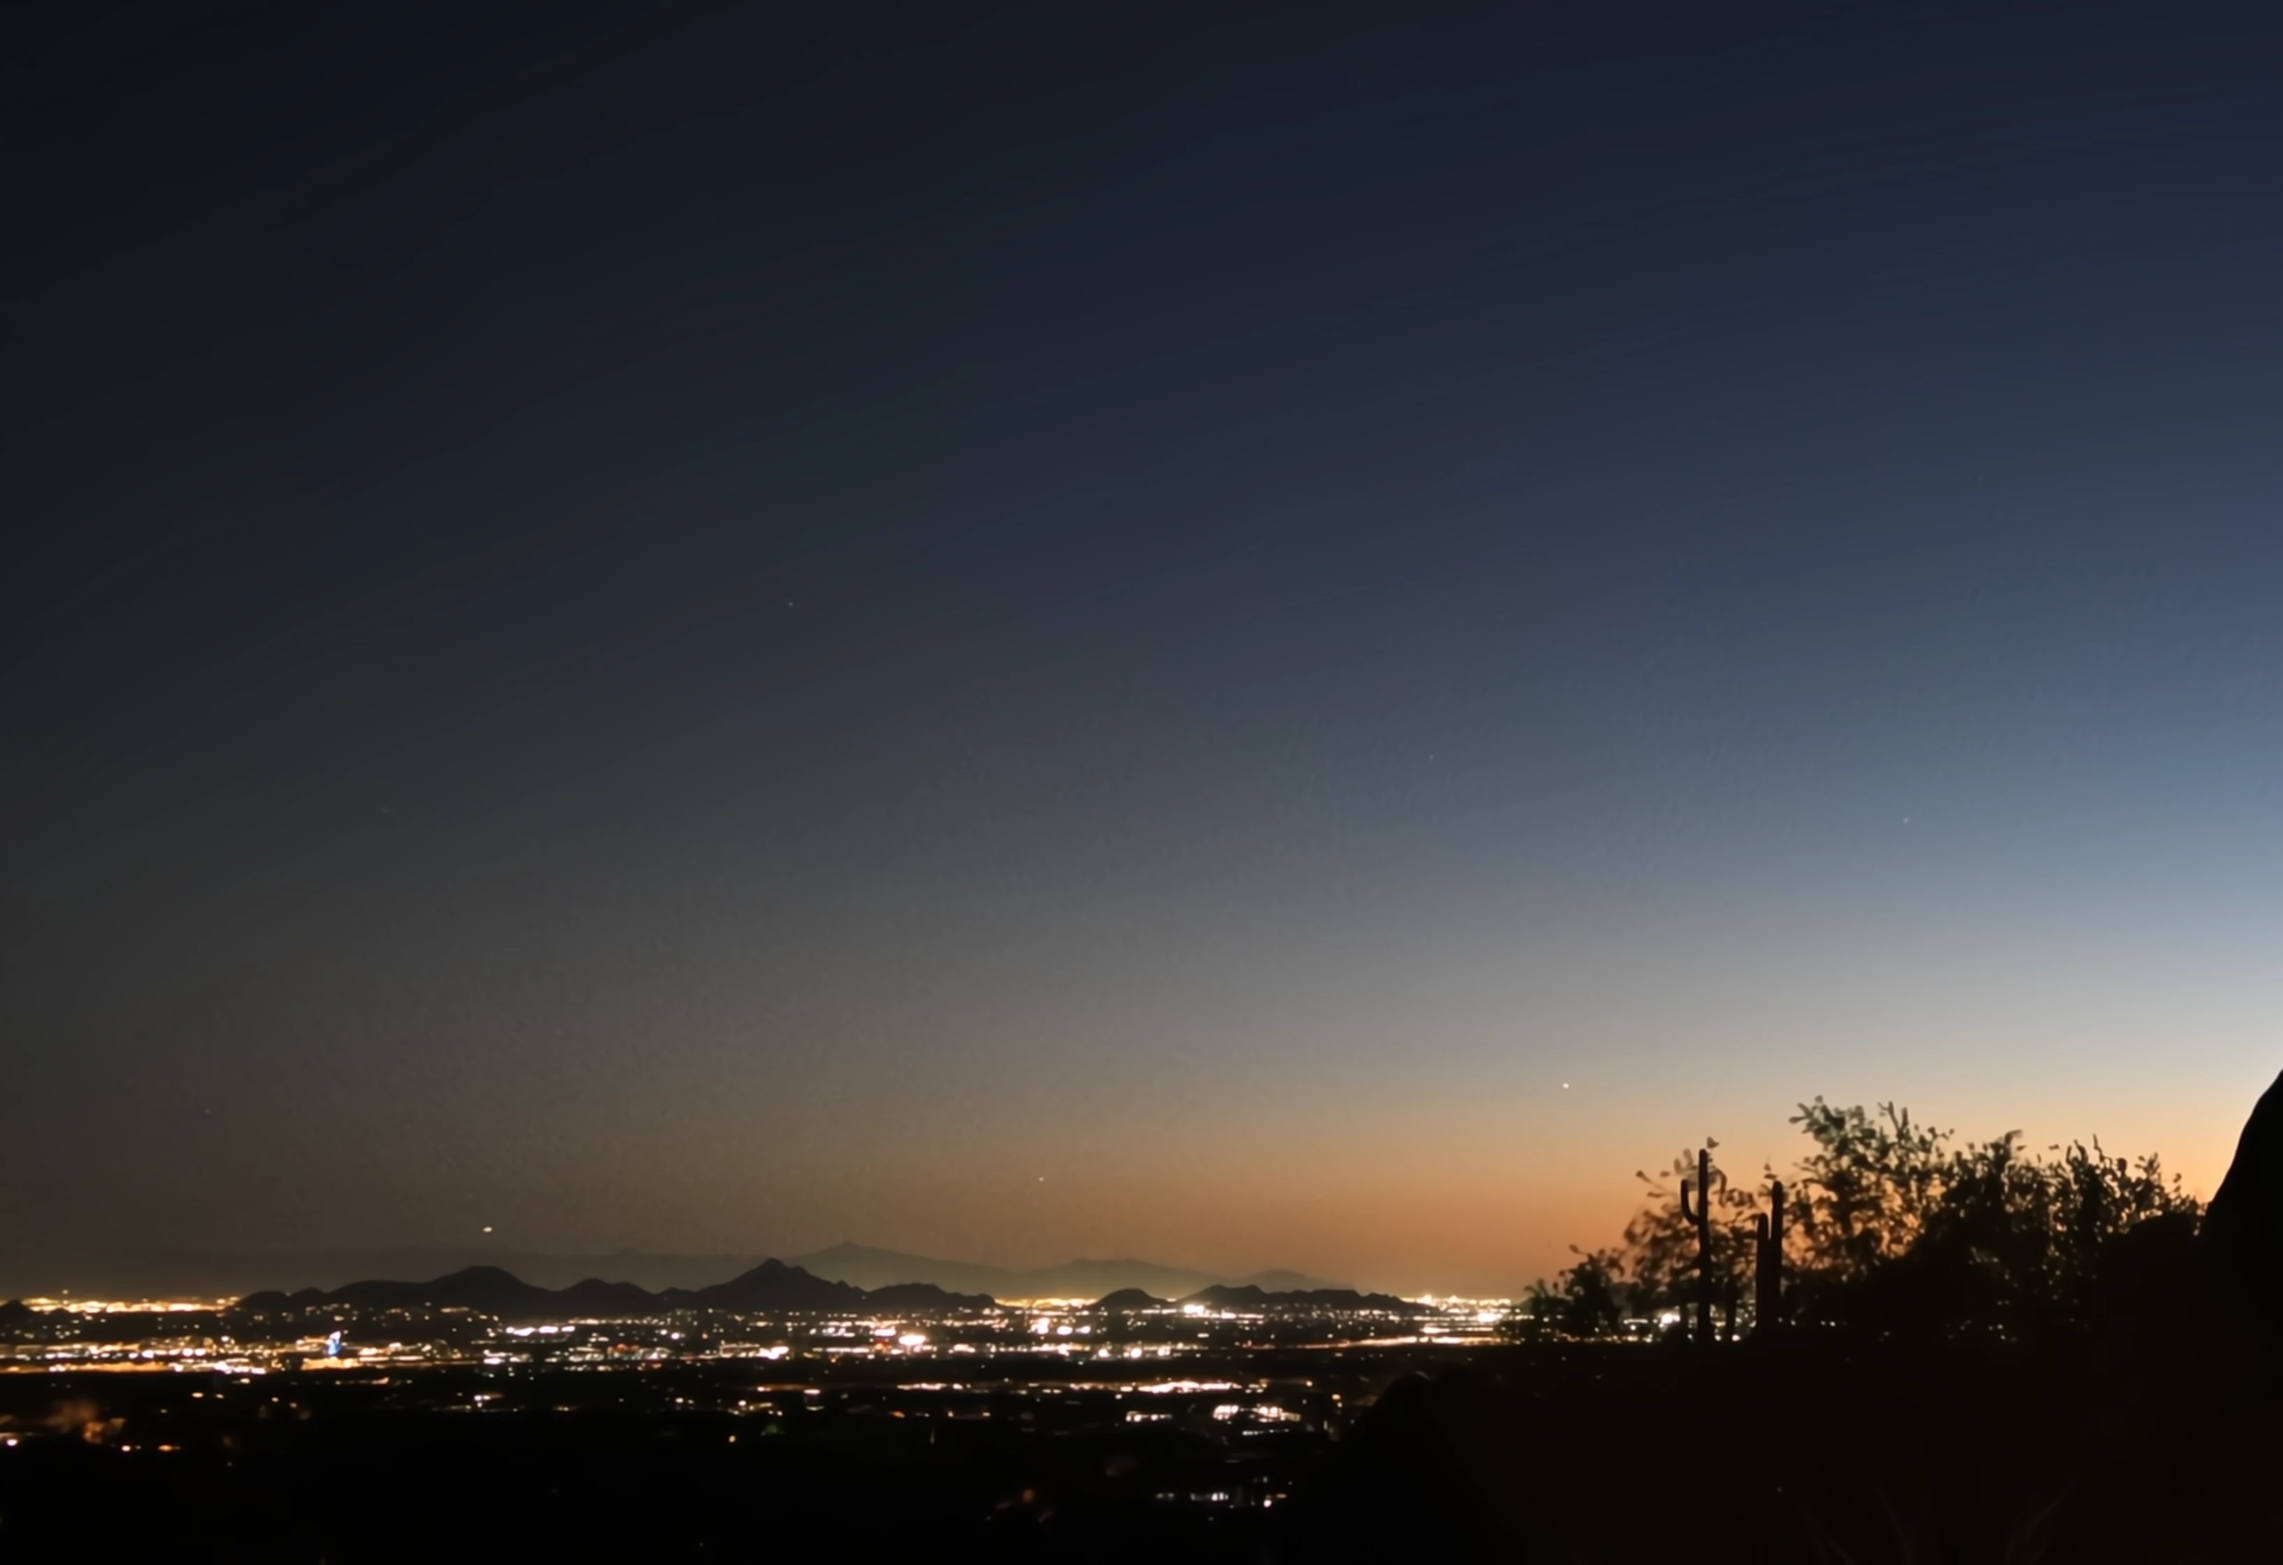
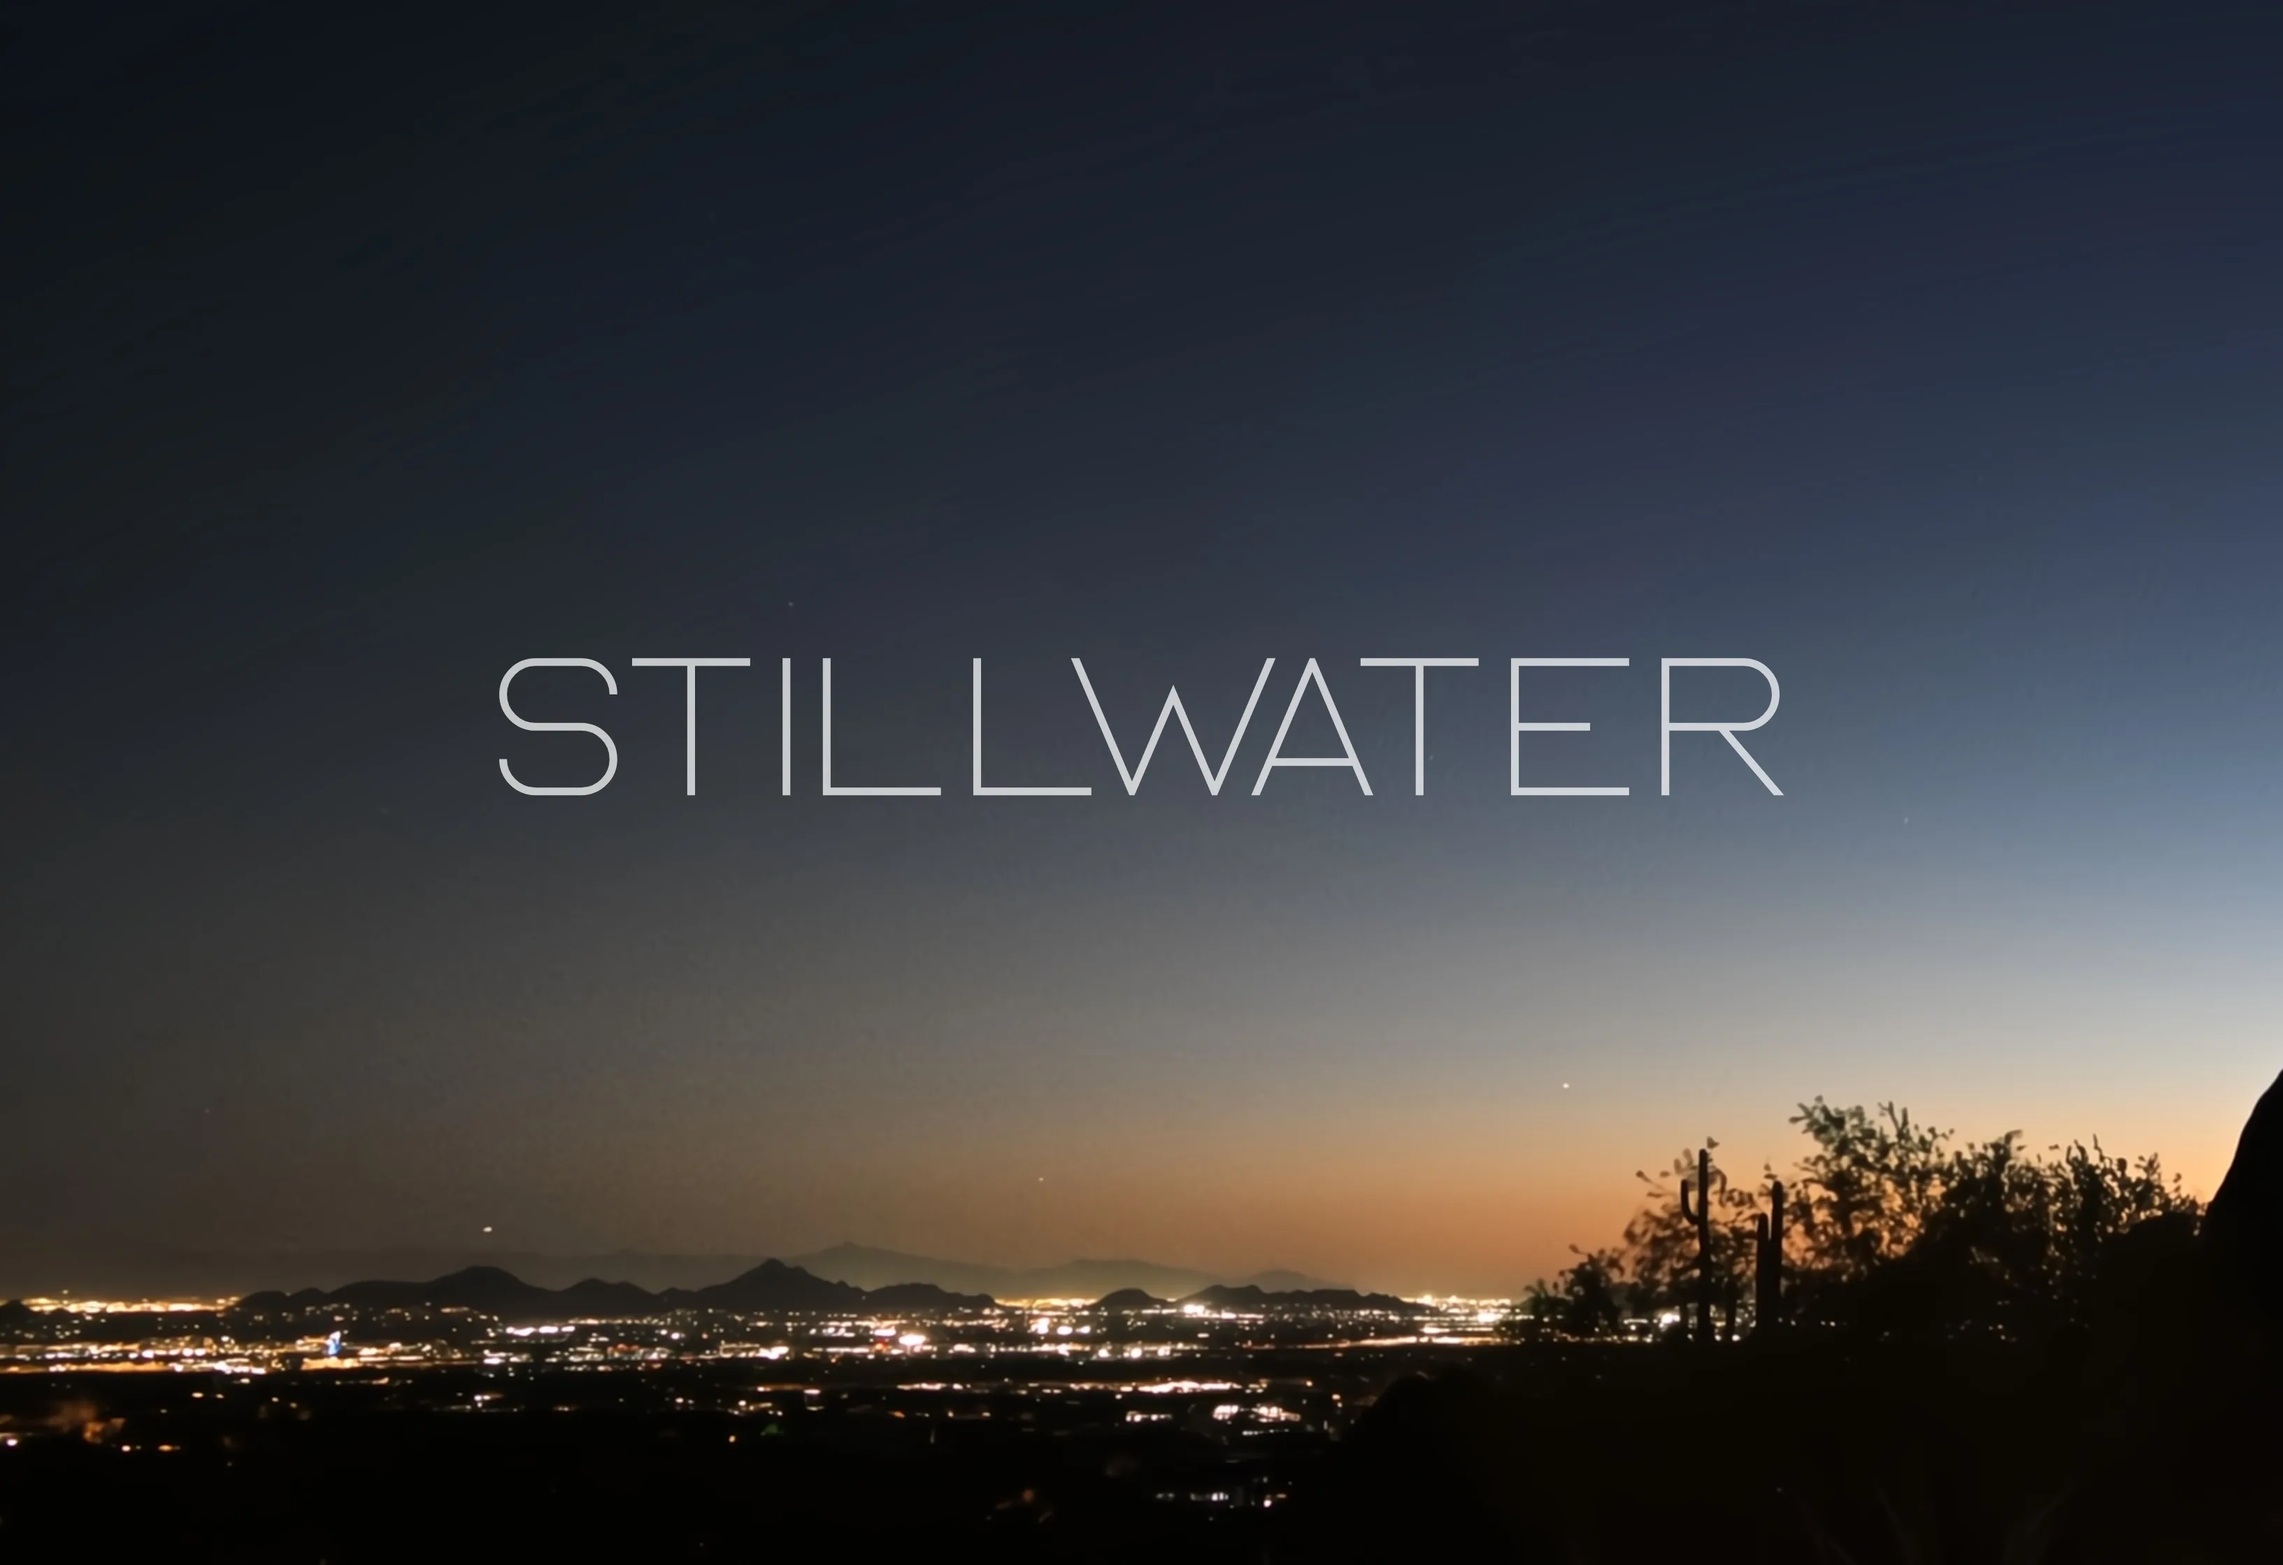
flow optimization changes 1

Changed region(s): [[0.3436, 0.4008, 0.781, 0.5241], [0.2187, 0.4008, 0.3436, 0.5241]]

diff --git a/src/components/TransitionScene.jsx b/src/components/TransitionScene.jsx
@@ -2,17 +2,15 @@ import { useEffect, useRef } from "react";
 import gsap from "gsap";
 import { ScrollTrigger } from "gsap/ScrollTrigger";
 
-import img1 from "../assets/transition-images/image.jpg";
-import img2 from "../assets/transition-images/StillWater2.jpg";
-import img3 from "../assets/transition-images/stillwater portrait.jpg";
-import img4 from "../assets/transition-images/CB787A7C-36DD-43DF-BEE5-09401B70F435_1_201_a.jpeg";
-import img5 from "../assets/transition-images/IMG_0516.jpg";
-import img6 from "../assets/transition-images/902EB426-B075-440F-9A7C-DCC8368DFB53_1_105_c.jpeg";
-import img7 from "../assets/transition-images/EF05DFC2-AC5E-49F2-B830-3194577C7D32_1_105_c.jpeg";
-import img8 from "../assets/transition-images/74B92F53-F170-411C-9F38-AD28940CFDDA_1_105_c.jpeg";
-import img9 from "../assets/transition-images/94D025A2-B193-4FA8-B33D-B59E815C457F_1_105_c.jpeg";
-
-gsap.registerPlugin(ScrollTrigger);
+import img1 from "../assets/transition-images/image.webp";
+import img2 from "../assets/transition-images/StillWater2.webp";
+import img3 from "../assets/transition-images/stillwater portrait.webp";
+import img4 from "../assets/transition-images/CB787A7C-36DD-43DF-BEE5-09401B70F435_1_201_a.webp";
+import img5 from "../assets/transition-images/IMG_0516.webp";
+import img6 from "../assets/transition-images/902EB426-B075-440F-9A7C-DCC8368DFB53_1_105_c.webp";
+import img7 from "../assets/transition-images/EF05DFC2-AC5E-49F2-B830-3194577C7D32_1_105_c.webp";
+import img8 from "../assets/transition-images/74B92F53-F170-411C-9F38-AD28940CFDDA_1_105_c.webp";
+import img9 from "../assets/transition-images/94D025A2-B193-4FA8-B33D-B59E815C457F_1_105_c.webp";
 
 const ALL_IMGS = [img1, img2, img3, img4, img5, img6, img7, img8, img9];
 
@@ -65,65 +63,51 @@ export default function TransitionScene({ index }) {
     const scene = sceneRef.current;
     const wrapper = wrapperRef.current;
     const gridCells = scene.querySelectorAll(".ts-cell");
-    // Trigger off the next sibling (the Hear pin-section)
-    // The wrapper is now inside .ts-spacer, so climb up to find the next section
     const spacer = wrapper.closest(".ts-spacer") ?? wrapper;
-    const nextSection = spacer.nextElementSibling;
-    if (!scene || !wrapper || !nextSection) return;
+    if (!scene || !wrapper) return;
 
-    const speeds = [0.6, 1.0, 0.75, 0.9, 0.55, 0.85];
     const vw = window.innerWidth;
-
-    // Assign each cell a random off-screen x start: left or right outside viewport
     const cellArr = Array.from(gridCells);
-    const xOrigins = cellArr.map(() =>
-      Math.random() < 0.5 ? -(vw * 1.4) : vw * 1.4,
+
+    // Each cell starts off-screen left or right (alternating, deterministic)
+    const xOrigins = cellArr.map((_, i) =>
+      i % 2 === 0 ? -(vw * 0.55) : vw * 0.55,
     );
 
-    gsap.set(scene, { opacity: 0 });
+    gsap.set(scene, { autoAlpha: 0 });
     cellArr.forEach((cell, i) => {
-      gsap.set(cell, { x: xOrigins[i], opacity: 0, scale: 0.25 });
+      gsap.set(cell, { x: xOrigins[i], autoAlpha: 0 });
     });
 
-    // Shuffle indices for random arrival order
-    const order = cellArr.map((_, i) => i).sort(() => Math.random() - 0.5);
+    const tl = gsap.timeline({ defaults: { ease: "none" } });
 
-    const tl = gsap.timeline({
-      scrollTrigger: {
-        trigger: nextSection,
-        start: "top 100%",
-        end: "top 15%",
-        scrub: 2,
-      },
+    tl.to(scene, { autoAlpha: 1, duration: 0.1 });
+    tl.to(cellArr, { x: 0, autoAlpha: 1, duration: 0.4, stagger: 0.08 }, "<");
+    tl.to({}, { duration: 0.2 });
+    tl.to(cellArr, {
+      x: (i) => xOrigins[i] * -0.4,
+      autoAlpha: 0,
+      duration: 0.4,
+      stagger: 0.06,
     });
+    tl.to(scene, { autoAlpha: 0, duration: 0.1 }, "-=0.1");
 
-    tl.to(scene, { opacity: 1, duration: 0.05, ease: "none" });
-
-    // Cells slide in from their random side one by one in shuffled order
-    order.forEach((idx, i) => {
-      tl.to(
-        cellArr[idx],
-        { x: 0, opacity: 1, scale: 1, duration: 0.08, ease: "power4.out" },
-        `<${i * 0.015}`,
-      );
+    const st = ScrollTrigger.create({
+      trigger: spacer,
+      start: "top 80%",
+      end: "bottom 20%",
+      scrub: true,
+      animation: tl,
+      onEnter: () =>
+        cellArr.forEach((c) => (c.style.willChange = "transform, opacity")),
+      onLeave: () => cellArr.forEach((c) => (c.style.willChange = "auto")),
+      onEnterBack: () =>
+        cellArr.forEach((c) => (c.style.willChange = "transform, opacity")),
+      onLeaveBack: () => cellArr.forEach((c) => (c.style.willChange = "auto")),
     });
-
-    // Hold — most of the timeline sits here before fade-out
-    tl.to({}, { duration: 0.35 });
-
-    // Cells disperse upward and fade out
-    cellArr.forEach((cell, i) => {
-      tl.to(
-        cell,
-        { y: -65 * speeds[i], opacity: 0, duration: 0.3, ease: "power2.in" },
-        "<0.03",
-      );
-    });
-
-    tl.to(scene, { opacity: 0, duration: 0.08, ease: "none" });
 
     return () => {
-      tl.scrollTrigger?.kill();
+      st.kill();
       tl.kill();
     };
   }, []);

diff --git a/src/components/Hear.jsx b/src/components/Hear.jsx
@@ -10,8 +10,6 @@ import track1 from "../assets/stillwater-assets/Brian Wilkinson - No One Told Yo
 import track2 from "../assets/stillwater-assets/Brian WIlkinson - Not Yet.mp3";
 import track3 from "../assets/stillwater-assets/Brian Wilkinson - I Think I Kinda Know Myself.mp3";
 
-gsap.registerPlugin(ScrollTrigger);
-
 const tracks = [
   { title: "No One Told You", src: track1 },
   { title: "Not Yet", src: track2 },
@@ -53,7 +51,7 @@ export default function Hear() {
           trigger: section,
           start: "top bottom",
           end: "bottom top",
-          scrub: 1.5,
+          scrub: 1,
         },
       },
     );
@@ -83,7 +81,7 @@ export default function Hear() {
           trigger: pinSection,
           start: "top 80%",
           end: "bottom 20%",
-          scrub: 1.5,
+          scrub: 1,
         },
       });
       fadeTl
@@ -93,29 +91,48 @@ export default function Hear() {
     }
 
     // Continuous looping wave — each char bobs up/down with a phase offset
+    const waveTweens = [];
     chars.forEach((char, i) => {
-      gsap.to(char, {
-        y: -14,
-        skewX: 4,
-        duration: 1.8,
-        ease: "sine.inOut",
-        repeat: -1,
-        yoyo: true,
-        delay: i * 0.1,
-      });
+      waveTweens.push(
+        gsap.to(char, {
+          y: -14,
+          skewX: 4,
+          duration: 1.8,
+          ease: "sine.inOut",
+          repeat: -1,
+          yoyo: true,
+          delay: i * 0.1,
+          paused: true,
+        }),
+      );
       // Subtle opacity shimmer to mimic light on water
-      gsap.to(char, {
-        opacity: 0.55,
-        duration: 2.2,
-        ease: "sine.inOut",
-        repeat: -1,
-        yoyo: true,
-        delay: i * 0.12 + 0.4,
-      });
+      waveTweens.push(
+        gsap.to(char, {
+          opacity: 0.55,
+          duration: 2.2,
+          ease: "sine.inOut",
+          repeat: -1,
+          yoyo: true,
+          delay: i * 0.12 + 0.4,
+          paused: true,
+        }),
+      );
+    });
+
+    // Only run wave tweens while section is visible
+    const waveST = ScrollTrigger.create({
+      trigger: pinSection ?? sectionRef.current,
+      start: "top bottom",
+      end: "bottom top",
+      onEnter: () => waveTweens.forEach((t) => t.play()),
+      onLeave: () => waveTweens.forEach((t) => t.pause()),
+      onEnterBack: () => waveTweens.forEach((t) => t.play()),
+      onLeaveBack: () => waveTweens.forEach((t) => t.pause()),
     });
 
     return () => {
-      gsap.killTweensOf(chars);
+      waveTweens.forEach((t) => t.kill());
+      waveST.kill();
       fadeTl?.scrollTrigger?.kill();
       fadeTl?.kill();
     };
@@ -171,15 +188,7 @@ export default function Hear() {
   };
 
   return (
-    <motion.section
-      ref={sectionRef}
-      id="hear"
-      className="hear"
-      initial={{ opacity: 0, x: -80 }}
-      whileInView={{ opacity: 1, x: 0 }}
-      viewport={{ once: true, margin: "-100px" }}
-      transition={{ duration: 0.8, ease: "easeOut" }}
-    >
+    <section ref={sectionRef} id="hear" className="hear">
       {/* Parallax background */}
       <div className="hear__bg-wrap">
         <div
@@ -261,6 +270,6 @@ export default function Hear() {
           </div>
         </div>
       </div>
-    </motion.section>
+    </section>
   );
 }

diff --git a/src/components/Bio.jsx b/src/components/Bio.jsx
@@ -2,8 +2,6 @@ import { useEffect, useRef } from "react";
 import gsap from "gsap";
 import { ScrollTrigger } from "gsap/ScrollTrigger";
 
-gsap.registerPlugin(ScrollTrigger);
-
 export default function Bio() {
   const bioRef = useRef(null);
 
@@ -14,11 +12,10 @@ export default function Bio() {
     const revealStack = bio.closest(".reveal-stack");
     const watchEl = revealStack?.querySelector(".reveal-stack__watch");
 
-    // Bio starts scaled down — sitting "behind" the Watch
+    // Bio starts hidden — sitting "behind" the Watch
     gsap.set(bio, {
-      scale: 0.72,
       opacity: 0,
-      transformOrigin: "center center",
+      y: 40,
     });
 
     const tl = gsap.timeline({
@@ -30,31 +27,28 @@ export default function Bio() {
       },
     });
 
-    // Watch explodes outward and falls apart
+    // Watch fades out
     if (watchEl) {
       tl.to(
         watchEl,
         {
-          scale: 1.25,
           opacity: 0,
-          filter: "blur(16px)",
-          transformOrigin: "center center",
           duration: 0.5,
-          ease: "power2.in",
+          ease: "none",
         },
         0,
       );
       tl.set(watchEl, { visibility: "hidden", pointerEvents: "none" }, 0.5);
     }
 
-    // Bio zooms in fully visible
+    // Bio fades and slides in
     tl.to(
       bio,
       {
-        scale: 1,
         opacity: 1,
+        y: 0,
         duration: 0.6,
-        ease: "power3.out",
+        ease: "none",
       },
       0.1,
     );
@@ -66,7 +60,7 @@ export default function Bio() {
         trigger: revealStack,
         start: "top+=80% top",
         end: "bottom top",
-        scrub: 1.5,
+        scrub: 1,
       },
     });
     readingTl.to(bioInner, {

diff --git a/src/App.jsx b/src/App.jsx
@@ -33,8 +33,6 @@ export default function App() {
   }, []);
 
   useEffect(() => {
-    gsap.ticker.lagSmoothing(0);
-
     // Progress bar: update on native scroll
     const onScroll = () => {
       if (progressRef.current) {
@@ -59,12 +57,10 @@ export default function App() {
 
     // Recalculate after images/fonts have loaded — critical when mounting
     // after login gate since large images shift page height significantly
-    const refresh1 = setTimeout(() => ScrollTrigger.refresh(), 300);
     const refresh2 = setTimeout(() => ScrollTrigger.refresh(), 1500);
     window.addEventListener("load", () => ScrollTrigger.refresh());
 
     return () => {
-      clearTimeout(refresh1);
       clearTimeout(refresh2);
       ScrollTrigger.getAll().forEach((t) => t.kill());
       window.removeEventListener("scroll", onScroll);

diff --git a/src/components/Hero.jsx b/src/components/Hero.jsx
@@ -8,10 +8,10 @@ import {
   FaFacebook,
 } from "react-icons/fa";
 
-import img1 from "../assets/hero-images/BWStillWater.jpg";
-import img2 from "../assets/hero-images/Still WAter Portrait 4.1.jpg";
-import img3 from "../assets/hero-images/StillWater Post 2.jpg";
-import img4 from "../assets/hero-images/Stillwater portrait 6.jpg";
+import img1 from "../assets/hero-images/BWStillWater.webp";
+import img2 from "../assets/hero-images/Still WAter Portrait 4.1.webp";
+import img3 from "../assets/hero-images/StillWater Post 2.webp";
+import img4 from "../assets/hero-images/Stillwater portrait 6.webp";
 
 const images = [img1, img2, img3, img4];
 

diff --git a/src/App.css b/src/App.css
@@ -50,7 +50,7 @@ html {
 /* Spacer between Hero and Hear that gives the transition scene room */
 .ts-spacer {
   position: relative;
-  height: 40vh;
+  height: 70vh;
   background: #000;
   display: flex;
   align-items: center;
@@ -117,7 +117,6 @@ html {
   overflow: hidden;
   border-radius: 4px;
   box-shadow: 0 8px 32px rgba(0, 0, 0, 0.6);
-  will-change: transform, opacity;
 }
 .ts-cell__placeholder {
   width: 100%;

diff --git a/src/components/Watch.jsx b/src/components/Watch.jsx
@@ -3,8 +3,6 @@ import gsap from "gsap";
 import { ScrollTrigger } from "gsap/ScrollTrigger";
 import stillwater6 from "../assets/stillwater-assets/stillwater6.webp";
 
-gsap.registerPlugin(ScrollTrigger);
-
 const videos = [
   { id: "3J7mOZnI22U", title: "Video 1" },
   { id: "ul2oGP2Pzuc", title: "Video 2" },
